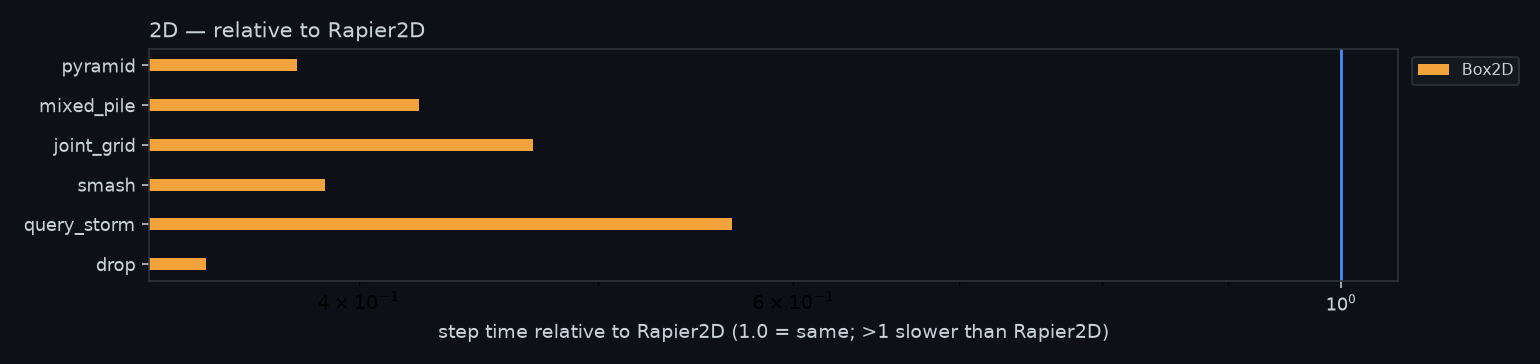
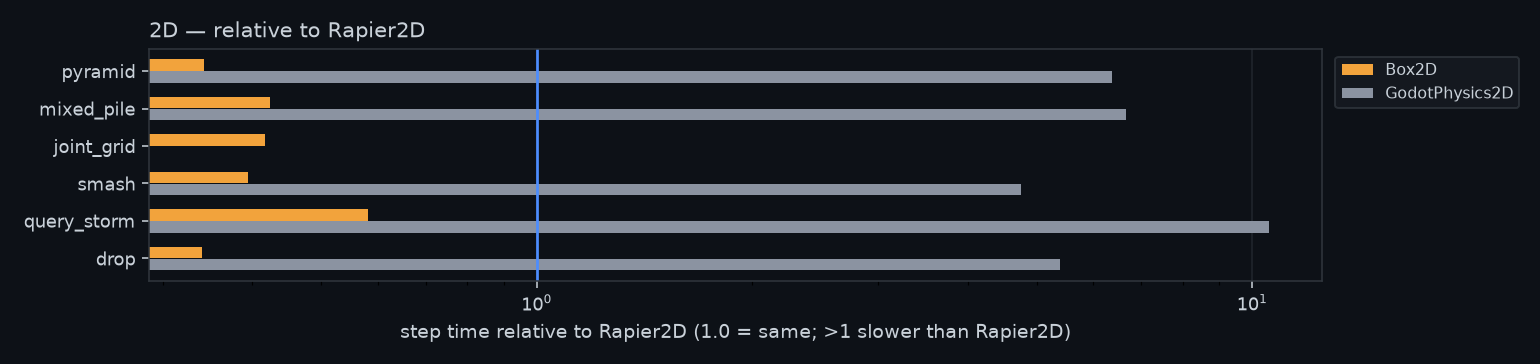
recovered GodotPhysics2D

diff --git a/make_report.py b/make_report.py
@@ -94,6 +94,7 @@ def summarize(runs):
             extra.setdefault(key, []).append(value)
     return {
         "diverged": diverged,
+        "diverged_reason": "reported a non-finite metric, so the simulation blew up" if diverged else None,
         "repeats": len(runs),
         "p50": min(p50s),
         "median": statistics.median(p50s),
@@ -182,6 +183,34 @@ def chart_relative(dim, cases, data, engines, out):
     return True
 
 
+# Extra metrics that measure how far bodies travelled. A world can explode without ever going
+# non-finite: bodies fly apart, stop touching, and the step gets cheap — a fast time for a
+# simulation that failed. So a value far beyond every other engine's on the same case marks the
+# run diverged. Relative, because what counts as "far" differs by case; compared against the
+# largest other value, so an engine that merely settles looser is not caught.
+EXPLOSION_METRICS = ("displacement_max", "spread")
+EXPLOSION_RATIO = 10.0
+
+
+def mark_exploded(case_data):
+    for key in EXPLOSION_METRICS:
+        values = {
+            e: v["extra"][key]
+            for e, v in case_data.items()
+            if key in v["extra"] and math.isfinite(v["extra"][key])
+        }
+        for engine, value in values.items():
+            others = [x for e, x in values.items() if e != engine]
+            if not others or max(others) <= 0:
+                continue
+            ratio = value / max(others)
+            if ratio > EXPLOSION_RATIO and not case_data[engine]["diverged"]:
+                case_data[engine]["diverged"] = True
+                case_data[engine]["diverged_reason"] = (
+                    f"has `{key}` at {ratio:,.0f}x any other engine's, so the simulation exploded"
+                )
+
+
 def carried_section(docs, dim):
     """A track's section from its existing REPORT-<DIM>.md, for a run that did not include it.
 
@@ -241,6 +270,8 @@ def main():
             c for c in sorted(cases_present) if c not in CASE_ORDER
         ]
         data = {c: {e: summarize(r) for e, r in cases_present[c].items()} for c in ordered}
+        for c in ordered:
+            mark_exploded(data[c])
         engines = sorted(
             {e for c in ordered for e in data[c]}, key=lambda e: (e != BASELINE.get(dim), e)
         )
@@ -318,8 +349,8 @@ def main():
             for engine, v in s.items():
                 if v["diverged"]:
                     warnings.append(
-                        f"{dim}/{case}: {engine} reported a non-finite metric — the simulation "
-                        f"blew up, so its step time is not ranked."
+                        f"{dim}/{case}: {engine} {v['diverged_reason']} — its step time is "
+                        f"not ranked."
                     )
                 if len(v["fps"]) > 1:
                     warnings.append(

diff --git a/docs/REPORT.md b/docs/REPORT.md
@@ -1,5 +1,9 @@
 # Godot physics engine benchmark
 
+## ⚠ Validity warnings
+
+- 2d/joint_grid: GodotPhysics2D has `displacement_max` at 935,529x any other engine's, so the simulation exploded — its step time is not ranked.
+
 Godot 4.7.1-stable (official) · 300 timed steps · 60 Hz · single run · lower is better.
 
 ## 2D (lower is better)
@@ -10,80 +14,89 @@ Godot 4.7.1-stable (official) · 300 timed steps · 60 Hz · single run · lower
 
 ### `pyramid` (2d)
 
-| Rapier2D | Box2D |
-|---|---|
-| ![Rapier2D](shots/2d_pyramid_Rapier2D.png) | ![Box2D](shots/2d_pyramid_Box2D.png) |
+| Rapier2D | Box2D | GodotPhysics2D |
+|---|---|---|
+| ![Rapier2D](shots/2d_pyramid_Rapier2D.png) | ![Box2D](shots/2d_pyramid_Box2D.png) | ![GodotPhysics2D](shots/2d_pyramid_GodotPhysics2D.png) |
 
 | engine | step p50 | step p99 | vs Rapier2D |
 |---|---:|---:|---:|
-| **Box2D** | **5.60 ms** | 6.16 ms | 0.38x |
-| Rapier2D | 14.83 ms | 19.81 ms | — |
+| **Box2D** | **5.12 ms** | 5.80 ms | 0.34x |
+| Rapier2D | 14.94 ms | 20.29 ms | — |
+| GodotPhysics2D | 94.97 ms | 152.88 ms | 6.36x |
 
 ### `mixed_pile` (2d)
 
-| Rapier2D | Box2D |
-|---|---|
-| ![Rapier2D](shots/2d_mixed_pile_Rapier2D.png) | ![Box2D](shots/2d_mixed_pile_Box2D.png) |
+| Rapier2D | Box2D | GodotPhysics2D |
+|---|---|---|
+| ![Rapier2D](shots/2d_mixed_pile_Rapier2D.png) | ![Box2D](shots/2d_mixed_pile_Box2D.png) | ![GodotPhysics2D](shots/2d_mixed_pile_GodotPhysics2D.png) |
 
 | engine | step p50 | step p99 | vs Rapier2D |
 |---|---:|---:|---:|
-| **Box2D** | **2.65 ms** | 3.67 ms | 0.42x |
-| Rapier2D | 6.26 ms | 8.11 ms | — |
+| **Box2D** | **2.56 ms** | 2.91 ms | 0.42x |
+| Rapier2D | 6.05 ms | 7.29 ms | — |
+| GodotPhysics2D | 40.30 ms | 45.55 ms | 6.66x |
 
 ### `joint_grid` (2d)
 
-| Rapier2D | Box2D |
-|---|---|
-| ![Rapier2D](shots/2d_joint_grid_Rapier2D.png) | ![Box2D](shots/2d_joint_grid_Box2D.png) |
+| Rapier2D | Box2D | GodotPhysics2D |
+|---|---|---|
+| ![Rapier2D](shots/2d_joint_grid_Rapier2D.png) | ![Box2D](shots/2d_joint_grid_Box2D.png) | ![GodotPhysics2D](shots/2d_joint_grid_GodotPhysics2D.png) |
 
 | engine | step p50 | step p99 | vs Rapier2D |
 |---|---:|---:|---:|
-| **Box2D** | **2.29 ms** | 2.76 ms | 0.47x |
-| Rapier2D | 4.87 ms | 5.80 ms | — |
+| GodotPhysics2D | diverged | — | — |
+| **Box2D** | **2.08 ms** | 2.28 ms | 0.42x |
+| Rapier2D | 4.98 ms | 5.36 ms | — |
 
 | engine | `displacement_max` |
 |---|---|
 | Box2D | 16.51 |
+| GodotPhysics2D | 15444226 |
 | Rapier2D | 5.319 |
 
 ### `smash` (2d)
 
-| Rapier2D | Box2D |
-|---|---|
-| ![Rapier2D](shots/2d_smash_Rapier2D.png) | ![Box2D](shots/2d_smash_Box2D.png) |
+| Rapier2D | Box2D | GodotPhysics2D |
+|---|---|---|
+| ![Rapier2D](shots/2d_smash_Rapier2D.png) | ![Box2D](shots/2d_smash_Box2D.png) | ![GodotPhysics2D](shots/2d_smash_GodotPhysics2D.png) |
 
 | engine | step p50 | step p99 | vs Rapier2D |
 |---|---:|---:|---:|
-| **Box2D** | **2.85 ms** | 3.28 ms | 0.39x |
-| Rapier2D | 7.36 ms | 11.36 ms | — |
+| **Box2D** | **2.87 ms** | 3.33 ms | 0.39x |
+| Rapier2D | 7.28 ms | 10.86 ms | — |
+| GodotPhysics2D | 34.57 ms | 43.50 ms | 4.75x |
 
 | engine | `spread` |
 |---|---|
 | Box2D | 3369 |
+| GodotPhysics2D | 1.484e+04 |
 | Rapier2D | 3449 |
 
 ### `query_storm` (2d)
 
-| Rapier2D | Box2D |
-|---|---|
-| ![Rapier2D](shots/2d_query_storm_Rapier2D.png) | ![Box2D](shots/2d_query_storm_Box2D.png) |
+| Rapier2D | Box2D | GodotPhysics2D |
+|---|---|---|
+| ![Rapier2D](shots/2d_query_storm_Rapier2D.png) | ![Box2D](shots/2d_query_storm_Box2D.png) | ![GodotPhysics2D](shots/2d_query_storm_GodotPhysics2D.png) |
 
 | engine | step p50 | step p99 | vs Rapier2D |
 |---|---:|---:|---:|
-| **Box2D** | **2.47 ms** | 2.73 ms | 0.57x |
-| Rapier2D | 4.36 ms | 6.51 ms | — |
+| **Box2D** | **2.51 ms** | 2.64 ms | 0.58x |
+| Rapier2D | 4.31 ms | 4.47 ms | — |
+| GodotPhysics2D | 45.40 ms | 46.02 ms | 10.54x |
 
 | engine | `hits` | `queries` |
 |---|---|---|
 | Box2D | 280563 | 323100 |
+| GodotPhysics2D | 280132 | 323100 |
 | Rapier2D | 258360 | 323100 |
 
 ### `drop` (2d)
 
 | engine | step p50 | step p99 | vs Rapier2D |
 |---|---:|---:|---:|
-| **Box2D** | **4.42 ms** | 5.14 ms | 0.35x |
-| Rapier2D | 12.74 ms | 18.27 ms | — |
+| **Box2D** | **4.18 ms** | 4.77 ms | 0.34x |
+| Rapier2D | 12.27 ms | 14.47 ms | — |
+| GodotPhysics2D | 66.05 ms | 103.94 ms | 5.38x |
 
 ## 3D (lower is better)
 

diff --git a/docs/REPORT-2D.md b/docs/REPORT-2D.md
@@ -1,5 +1,9 @@
 # Godot physics engine benchmark
 
+## ⚠ Validity warnings
+
+- 2d/joint_grid: GodotPhysics2D has `displacement_max` at 935,529x any other engine's, so the simulation exploded — its step time is not ranked.
+
 Godot 4.7.1-stable (official) · 300 timed steps · 60 Hz · single run · lower is better.
 
 ## 2D (lower is better)
@@ -10,77 +14,86 @@ Godot 4.7.1-stable (official) · 300 timed steps · 60 Hz · single run · lower
 
 ### `pyramid` (2d)
 
-| Rapier2D | Box2D |
-|---|---|
-| ![Rapier2D](shots/2d_pyramid_Rapier2D.png) | ![Box2D](shots/2d_pyramid_Box2D.png) |
+| Rapier2D | Box2D | GodotPhysics2D |
+|---|---|---|
+| ![Rapier2D](shots/2d_pyramid_Rapier2D.png) | ![Box2D](shots/2d_pyramid_Box2D.png) | ![GodotPhysics2D](shots/2d_pyramid_GodotPhysics2D.png) |
 
 | engine | step p50 | step p99 | vs Rapier2D |
 |---|---:|---:|---:|
-| **Box2D** | **5.60 ms** | 6.16 ms | 0.38x |
-| Rapier2D | 14.83 ms | 19.81 ms | — |
+| **Box2D** | **5.12 ms** | 5.80 ms | 0.34x |
+| Rapier2D | 14.94 ms | 20.29 ms | — |
+| GodotPhysics2D | 94.97 ms | 152.88 ms | 6.36x |
 
 ### `mixed_pile` (2d)
 
-| Rapier2D | Box2D |
-|---|---|
-| ![Rapier2D](shots/2d_mixed_pile_Rapier2D.png) | ![Box2D](shots/2d_mixed_pile_Box2D.png) |
+| Rapier2D | Box2D | GodotPhysics2D |
+|---|---|---|
+| ![Rapier2D](shots/2d_mixed_pile_Rapier2D.png) | ![Box2D](shots/2d_mixed_pile_Box2D.png) | ![GodotPhysics2D](shots/2d_mixed_pile_GodotPhysics2D.png) |
 
 | engine | step p50 | step p99 | vs Rapier2D |
 |---|---:|---:|---:|
-| **Box2D** | **2.65 ms** | 3.67 ms | 0.42x |
-| Rapier2D | 6.26 ms | 8.11 ms | — |
+| **Box2D** | **2.56 ms** | 2.91 ms | 0.42x |
+| Rapier2D | 6.05 ms | 7.29 ms | — |
+| GodotPhysics2D | 40.30 ms | 45.55 ms | 6.66x |
 
 ### `joint_grid` (2d)
 
-| Rapier2D | Box2D |
-|---|---|
-| ![Rapier2D](shots/2d_joint_grid_Rapier2D.png) | ![Box2D](shots/2d_joint_grid_Box2D.png) |
+| Rapier2D | Box2D | GodotPhysics2D |
+|---|---|---|
+| ![Rapier2D](shots/2d_joint_grid_Rapier2D.png) | ![Box2D](shots/2d_joint_grid_Box2D.png) | ![GodotPhysics2D](shots/2d_joint_grid_GodotPhysics2D.png) |
 
 | engine | step p50 | step p99 | vs Rapier2D |
 |---|---:|---:|---:|
-| **Box2D** | **2.29 ms** | 2.76 ms | 0.47x |
-| Rapier2D | 4.87 ms | 5.80 ms | — |
+| GodotPhysics2D | diverged | — | — |
+| **Box2D** | **2.08 ms** | 2.28 ms | 0.42x |
+| Rapier2D | 4.98 ms | 5.36 ms | — |
 
 | engine | `displacement_max` |
 |---|---|
 | Box2D | 16.51 |
+| GodotPhysics2D | 15444226 |
 | Rapier2D | 5.319 |
 
 ### `smash` (2d)
 
-| Rapier2D | Box2D |
-|---|---|
-| ![Rapier2D](shots/2d_smash_Rapier2D.png) | ![Box2D](shots/2d_smash_Box2D.png) |
+| Rapier2D | Box2D | GodotPhysics2D |
+|---|---|---|
+| ![Rapier2D](shots/2d_smash_Rapier2D.png) | ![Box2D](shots/2d_smash_Box2D.png) | ![GodotPhysics2D](shots/2d_smash_GodotPhysics2D.png) |
 
 | engine | step p50 | step p99 | vs Rapier2D |
 |---|---:|---:|---:|
-| **Box2D** | **2.85 ms** | 3.28 ms | 0.39x |
-| Rapier2D | 7.36 ms | 11.36 ms | — |
+| **Box2D** | **2.87 ms** | 3.33 ms | 0.39x |
+| Rapier2D | 7.28 ms | 10.86 ms | — |
+| GodotPhysics2D | 34.57 ms | 43.50 ms | 4.75x |
 
 | engine | `spread` |
 |---|---|
 | Box2D | 3369 |
+| GodotPhysics2D | 1.484e+04 |
 | Rapier2D | 3449 |
 
 ### `query_storm` (2d)
 
-| Rapier2D | Box2D |
-|---|---|
-| ![Rapier2D](shots/2d_query_storm_Rapier2D.png) | ![Box2D](shots/2d_query_storm_Box2D.png) |
+| Rapier2D | Box2D | GodotPhysics2D |
+|---|---|---|
+| ![Rapier2D](shots/2d_query_storm_Rapier2D.png) | ![Box2D](shots/2d_query_storm_Box2D.png) | ![GodotPhysics2D](shots/2d_query_storm_GodotPhysics2D.png) |
 
 | engine | step p50 | step p99 | vs Rapier2D |
 |---|---:|---:|---:|
-| **Box2D** | **2.47 ms** | 2.73 ms | 0.57x |
-| Rapier2D | 4.36 ms | 6.51 ms | — |
+| **Box2D** | **2.51 ms** | 2.64 ms | 0.58x |
+| Rapier2D | 4.31 ms | 4.47 ms | — |
+| GodotPhysics2D | 45.40 ms | 46.02 ms | 10.54x |
 
 | engine | `hits` | `queries` |
 |---|---|---|
 | Box2D | 280563 | 323100 |
+| GodotPhysics2D | 280132 | 323100 |
 | Rapier2D | 258360 | 323100 |
 
 ### `drop` (2d)
 
 | engine | step p50 | step p99 | vs Rapier2D |
 |---|---:|---:|---:|
-| **Box2D** | **4.42 ms** | 5.14 ms | 0.35x |
-| Rapier2D | 12.74 ms | 18.27 ms | — |
+| **Box2D** | **4.18 ms** | 4.77 ms | 0.34x |
+| Rapier2D | 12.27 ms | 14.47 ms | — |
+| GodotPhysics2D | 66.05 ms | 103.94 ms | 5.38x |
